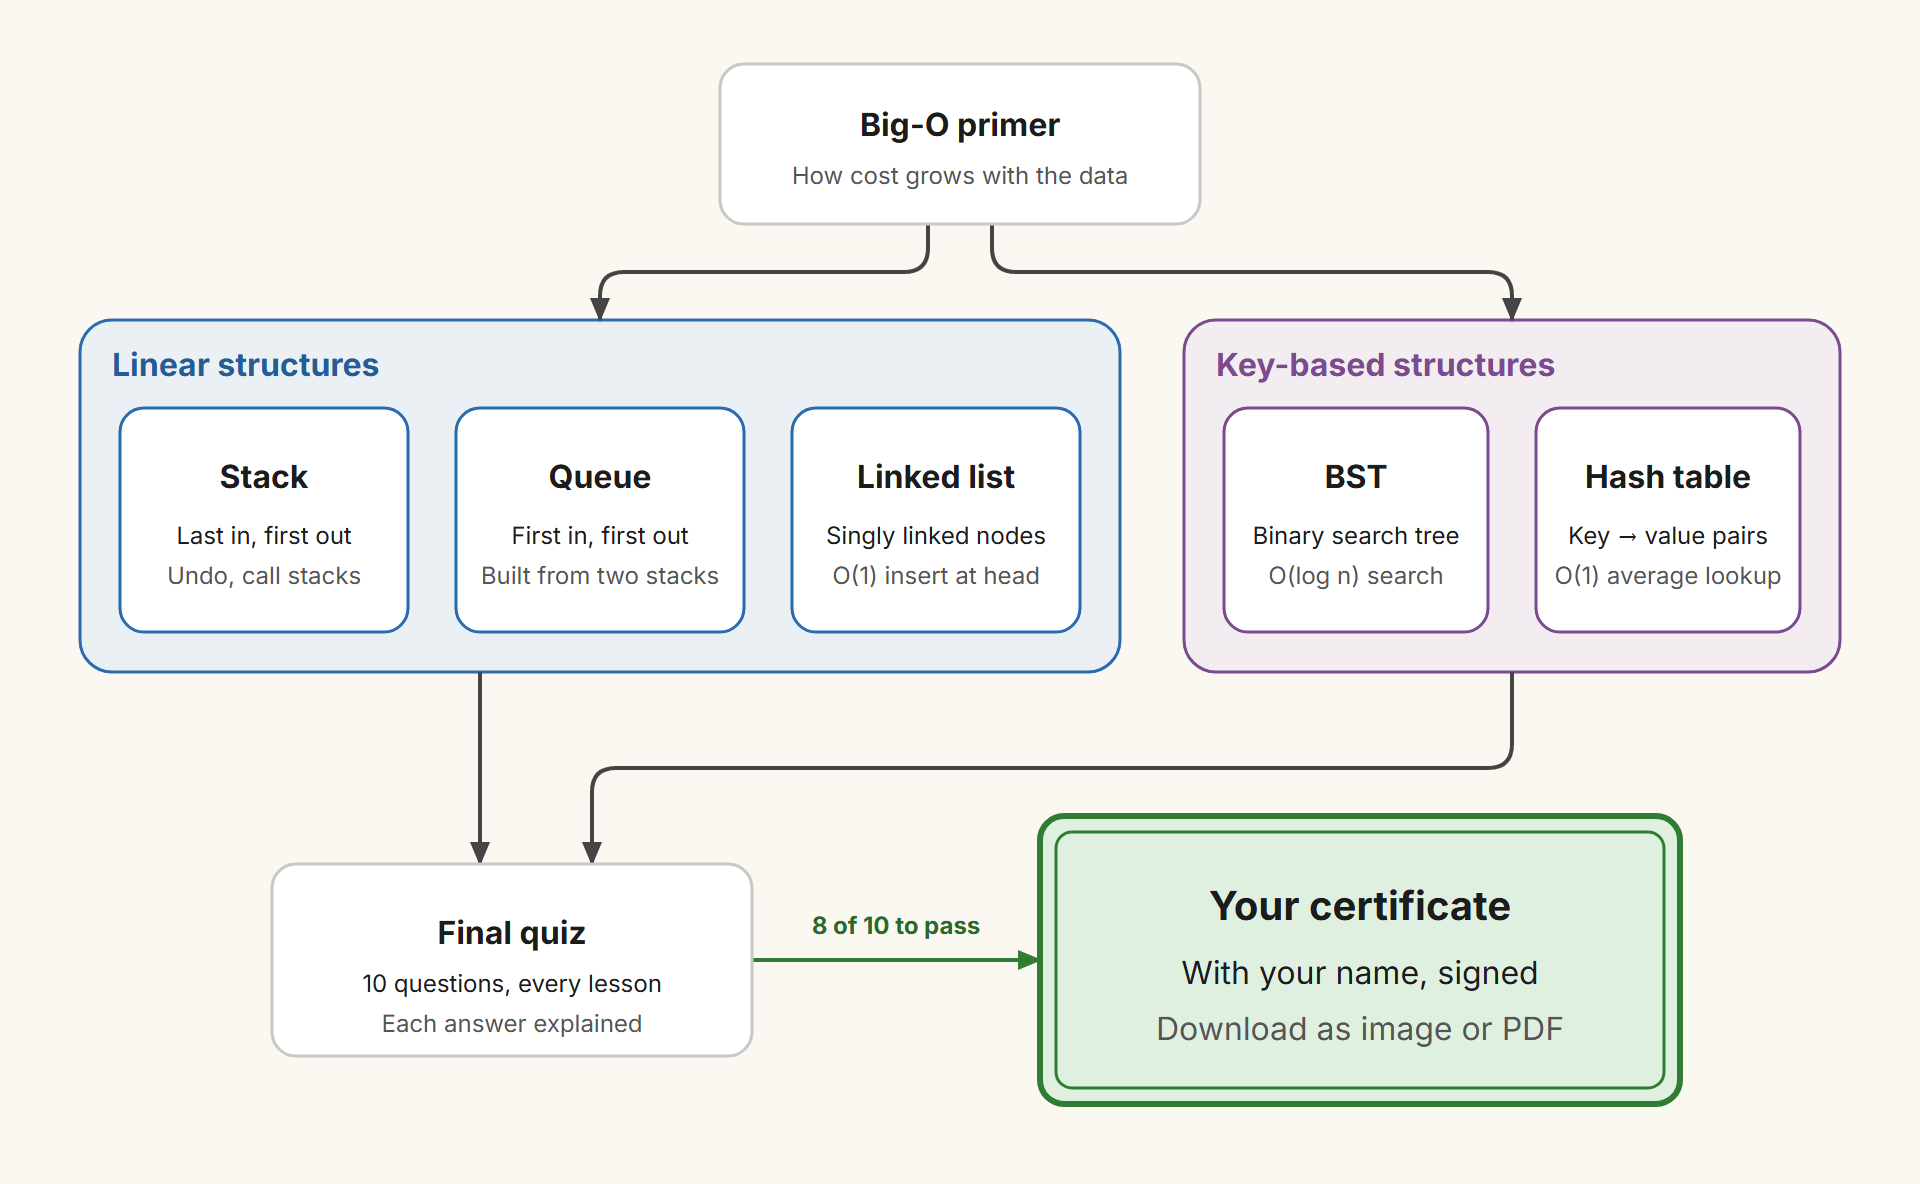
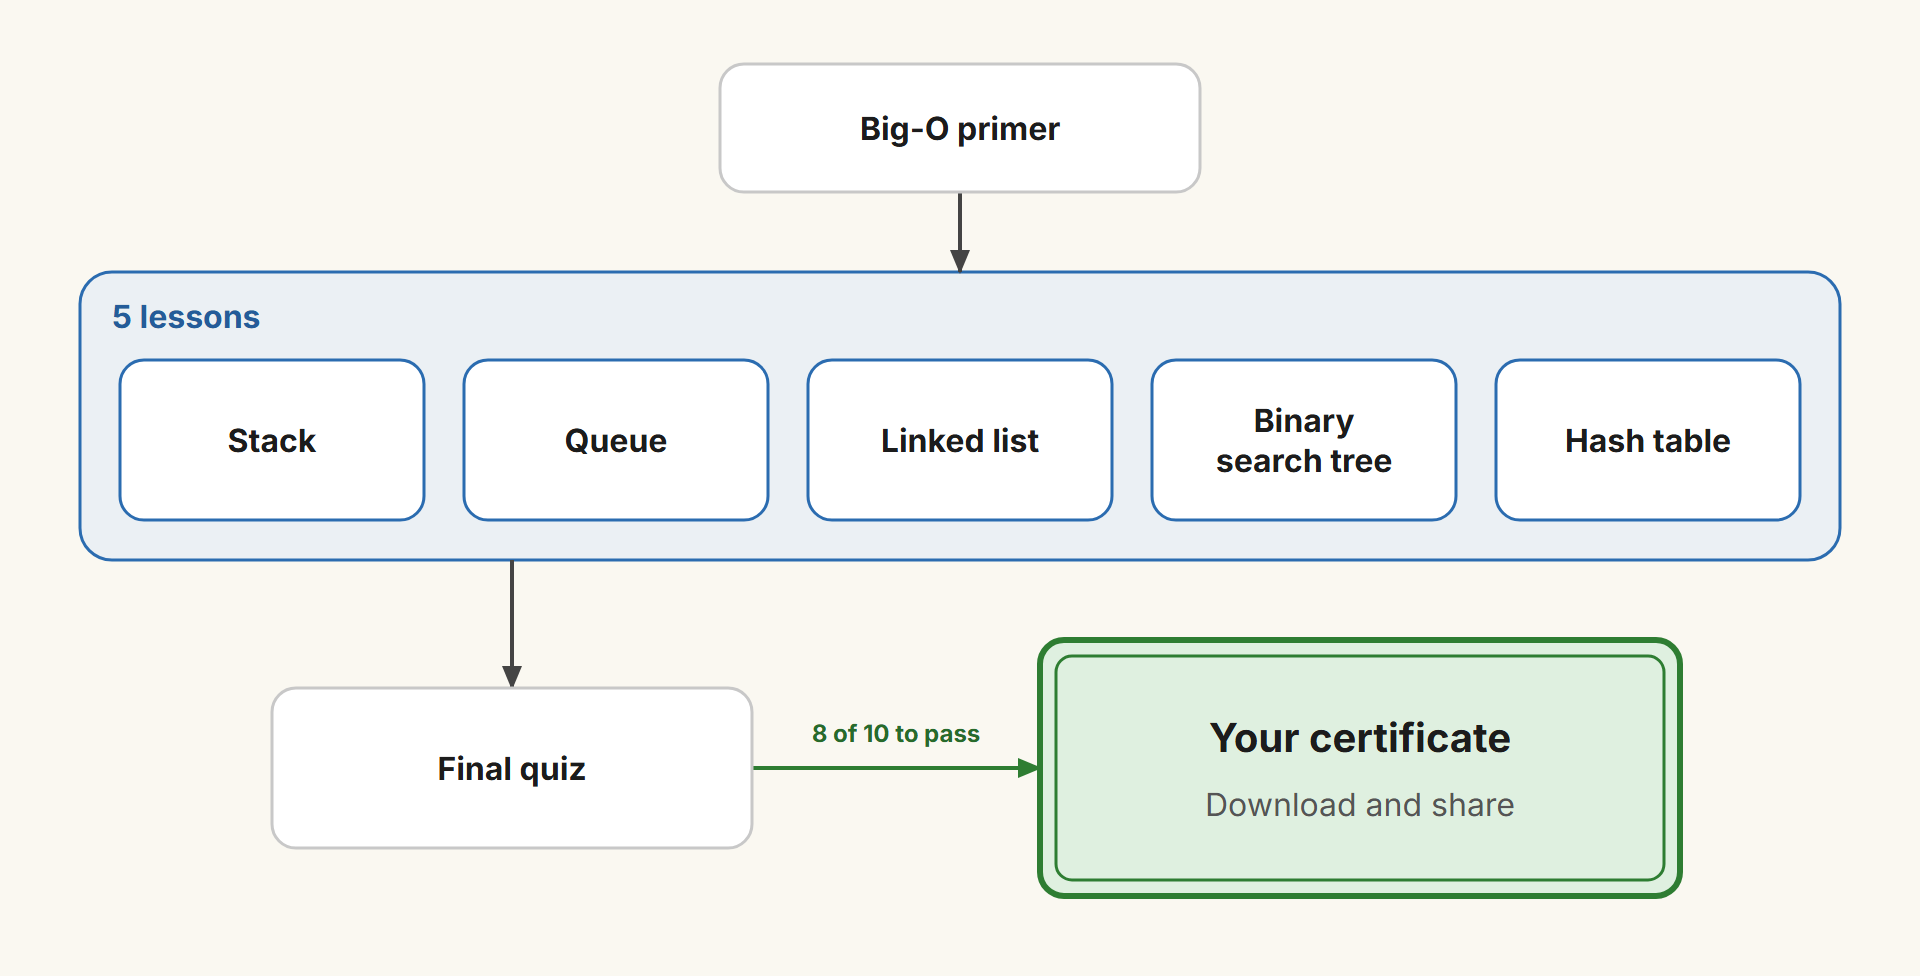
Simplify course overview figure

diff --git a/images/course-overview.html b/images/course-overview.html
@@ -39,13 +39,13 @@
 <body>
   <div class="frame">
     <h1>Introduction to Data Structures</h1>
-    <p class="subtitle">Big-O primer · 5 lessons with theory, animations and practice · final quiz · certificate</p>
+    <p class="subtitle">Big-O primer · 5 lessons · final quiz · certificate</p>
 
     <div class="figure">
-    <svg viewBox="0 0 960 592" xmlns="http://www.w3.org/2000/svg" role="img" aria-labelledby="course-overview-title course-overview-desc"
+    <svg viewBox="0 0 960 488" xmlns="http://www.w3.org/2000/svg" role="img" aria-labelledby="course-overview-title course-overview-desc"
          font-family="Inter, system-ui, sans-serif">
       <title id="course-overview-title">Introduction to Data Structures: course path</title>
-      <desc id="course-overview-desc">The course starts with a Big-O primer, covers five data structures in two groups (stack, queue and linked list; binary search tree and hash table), then a final quiz where 8 of 10 correct earns a signed certificate you can download.</desc>
+      <desc id="course-overview-desc">The course starts with a Big-O primer, then five lessons on the stack, queue, linked list, binary search tree and hash table, then a final quiz; scoring 8 of 10 earns a certificate you can download and share.</desc>
       <defs>
         <marker id="arrow" markerUnits="userSpaceOnUse" markerWidth="12" markerHeight="10" refX="11" refY="5" orient="auto"><polygon points="0 0, 12 5, 0 10" fill="#444444"/></marker>
         <marker id="arrow-green" markerUnits="userSpaceOnUse" markerWidth="12" markerHeight="10" refX="11" refY="5" orient="auto"><polygon points="0 0, 12 5, 0 10" fill="#2e7d32"/></marker>
@@ -53,67 +53,49 @@
 
       <rect width="100%" height="100%" fill="#faf8f1"/>
 
-      <!-- Zones -->
-      <rect x="40" y="160" width="520" height="176" rx="16" fill="#ebf0f4" stroke="#2b6cb0" stroke-width="1.5"/>
-      <text x="56" y="188" font-size="16" font-weight="700" fill="#245c99">Linear structures</text>
-      <rect x="592" y="160" width="328" height="176" rx="16" fill="#f3edf2" stroke="#7b4a8f" stroke-width="1.5"/>
-      <text x="608" y="188" font-size="16" font-weight="700" fill="#7b4a8f">Key-based structures</text>
+      <!-- Zone: the five lessons -->
+      <rect x="40" y="136" width="880" height="144" rx="16" fill="#ebf0f4" stroke="#2b6cb0" stroke-width="1.5"/>
+      <text x="56" y="164" font-size="16" font-weight="700" fill="#245c99">5 lessons</text>
 
       <!-- Connectors -->
-      <path d="M 464 112 V 124 Q 464 136 452 136 H 312 Q 300 136 300 148 V 160" fill="none" stroke="#444444" stroke-width="2" marker-end="url(#arrow)"/>
-      <path d="M 496 112 V 124 Q 496 136 508 136 H 744 Q 756 136 756 148 V 160" fill="none" stroke="#444444" stroke-width="2" marker-end="url(#arrow)"/>
-      <line x1="240" y1="336" x2="240" y2="432" stroke="#444444" stroke-width="2" marker-end="url(#arrow)"/>
-      <path d="M 756 336 V 372 Q 756 384 744 384 H 308 Q 296 384 296 396 V 432" fill="none" stroke="#444444" stroke-width="2" marker-end="url(#arrow)"/>
-      <line x1="376" y1="480" x2="520" y2="480" stroke="#2e7d32" stroke-width="2" marker-end="url(#arrow-green)"/>
+      <line x1="480" y1="96" x2="480" y2="136" stroke="#444444" stroke-width="2" marker-end="url(#arrow)"/>
+      <line x1="256" y1="280" x2="256" y2="344" stroke="#444444" stroke-width="2" marker-end="url(#arrow)"/>
+      <line x1="376" y1="384" x2="520" y2="384" stroke="#2e7d32" stroke-width="2" marker-end="url(#arrow-green)"/>
 
       <!-- Connector label -->
-      <rect x="390" y="452" width="116" height="20" fill="#faf8f1"/>
-      <text x="448" y="467" text-anchor="middle" font-size="12" font-weight="700" fill="#276b2b">8 of 10 to pass</text>
+      <rect x="390" y="356" width="116" height="20" fill="#faf8f1"/>
+      <text x="448" y="371" text-anchor="middle" font-size="12" font-weight="700" fill="#276b2b">8 of 10 to pass</text>
 
-      <!-- Start: Big-O primer -->
-      <rect x="360" y="32" width="240" height="80" rx="12" fill="#ffffff" stroke="#c8c8c8" stroke-width="1.5"/>
-      <text x="480" y="68" text-anchor="middle" font-size="16" font-weight="700" fill="#1c1c1c">Big-O primer</text>
-      <text x="480" y="92" text-anchor="middle" font-size="12" fill="#555555">How cost grows with the data</text>
+      <!-- Start -->
+      <rect x="360" y="32" width="240" height="64" rx="12" fill="#ffffff" stroke="#c8c8c8" stroke-width="1.5"/>
+      <text x="480" y="70" text-anchor="middle" font-size="16" font-weight="700" fill="#1c1c1c">Big-O primer</text>
 
-      <!-- Linear lessons -->
-      <rect x="60" y="204" width="144" height="112" rx="12" fill="#ffffff" stroke="#2b6cb0" stroke-width="1.5"/>
-      <text x="132" y="244" text-anchor="middle" font-size="16" font-weight="700" fill="#1c1c1c">Stack</text>
-      <text x="132" y="272" text-anchor="middle" font-size="12" fill="#1c1c1c">Last in, first out</text>
-      <text x="132" y="292" text-anchor="middle" font-size="12" fill="#555555">Undo, call stacks</text>
+      <!-- Lessons -->
+      <rect x="60" y="180" width="152" height="80" rx="12" fill="#ffffff" stroke="#2b6cb0" stroke-width="1.5"/>
+      <text x="136" y="226" text-anchor="middle" font-size="16" font-weight="700" fill="#1c1c1c">Stack</text>
 
-      <rect x="228" y="204" width="144" height="112" rx="12" fill="#ffffff" stroke="#2b6cb0" stroke-width="1.5"/>
-      <text x="300" y="244" text-anchor="middle" font-size="16" font-weight="700" fill="#1c1c1c">Queue</text>
-      <text x="300" y="272" text-anchor="middle" font-size="12" fill="#1c1c1c">First in, first out</text>
-      <text x="300" y="292" text-anchor="middle" font-size="12" fill="#555555">Built from two stacks</text>
+      <rect x="232" y="180" width="152" height="80" rx="12" fill="#ffffff" stroke="#2b6cb0" stroke-width="1.5"/>
+      <text x="308" y="226" text-anchor="middle" font-size="16" font-weight="700" fill="#1c1c1c">Queue</text>
 
-      <rect x="396" y="204" width="144" height="112" rx="12" fill="#ffffff" stroke="#2b6cb0" stroke-width="1.5"/>
-      <text x="468" y="244" text-anchor="middle" font-size="16" font-weight="700" fill="#1c1c1c">Linked list</text>
-      <text x="468" y="272" text-anchor="middle" font-size="12" fill="#1c1c1c">Singly linked nodes</text>
-      <text x="468" y="292" text-anchor="middle" font-size="12" fill="#555555">O(1) insert at head</text>
+      <rect x="404" y="180" width="152" height="80" rx="12" fill="#ffffff" stroke="#2b6cb0" stroke-width="1.5"/>
+      <text x="480" y="226" text-anchor="middle" font-size="16" font-weight="700" fill="#1c1c1c">Linked list</text>
 
-      <!-- Key-based lessons -->
-      <rect x="612" y="204" width="132" height="112" rx="12" fill="#ffffff" stroke="#7b4a8f" stroke-width="1.5"/>
-      <text x="678" y="244" text-anchor="middle" font-size="16" font-weight="700" fill="#1c1c1c">BST</text>
-      <text x="678" y="272" text-anchor="middle" font-size="12" fill="#1c1c1c">Binary search tree</text>
-      <text x="678" y="292" text-anchor="middle" font-size="12" fill="#555555">O(log n) search</text>
+      <rect x="576" y="180" width="152" height="80" rx="12" fill="#ffffff" stroke="#2b6cb0" stroke-width="1.5"/>
+      <text x="652" y="216" text-anchor="middle" font-size="16" font-weight="700" fill="#1c1c1c">Binary</text>
+      <text x="652" y="236" text-anchor="middle" font-size="16" font-weight="700" fill="#1c1c1c">search tree</text>
 
-      <rect x="768" y="204" width="132" height="112" rx="12" fill="#ffffff" stroke="#7b4a8f" stroke-width="1.5"/>
-      <text x="834" y="244" text-anchor="middle" font-size="16" font-weight="700" fill="#1c1c1c">Hash table</text>
-      <text x="834" y="272" text-anchor="middle" font-size="12" fill="#1c1c1c">Key → value pairs</text>
-      <text x="834" y="292" text-anchor="middle" font-size="12" fill="#555555">O(1) average lookup</text>
+      <rect x="748" y="180" width="152" height="80" rx="12" fill="#ffffff" stroke="#2b6cb0" stroke-width="1.5"/>
+      <text x="824" y="226" text-anchor="middle" font-size="16" font-weight="700" fill="#1c1c1c">Hash table</text>
 
       <!-- Final quiz -->
-      <rect x="136" y="432" width="240" height="96" rx="12" fill="#ffffff" stroke="#c8c8c8" stroke-width="1.5"/>
-      <text x="256" y="472" text-anchor="middle" font-size="16" font-weight="700" fill="#1c1c1c">Final quiz</text>
-      <text x="256" y="496" text-anchor="middle" font-size="12" fill="#1c1c1c">10 questions, every lesson</text>
-      <text x="256" y="516" text-anchor="middle" font-size="12" fill="#555555">Each answer explained</text>
+      <rect x="136" y="344" width="240" height="80" rx="12" fill="#ffffff" stroke="#c8c8c8" stroke-width="1.5"/>
+      <text x="256" y="390" text-anchor="middle" font-size="16" font-weight="700" fill="#1c1c1c">Final quiz</text>
 
       <!-- Focal: the certificate (larger, double frame like the real one) -->
-      <rect x="520" y="408" width="320" height="144" rx="12" fill="#dff0e0" stroke="#2e7d32" stroke-width="3"/>
-      <rect x="528" y="416" width="304" height="128" rx="8" fill="none" stroke="#2e7d32" stroke-width="1.5"/>
-      <text x="680" y="460" text-anchor="middle" font-size="20" font-weight="700" fill="#1c1c1c">Your certificate</text>
-      <text x="680" y="492" text-anchor="middle" font-size="16" fill="#1c1c1c">With your name, signed</text>
-      <text x="680" y="520" text-anchor="middle" font-size="16" fill="#555555">Download as image or PDF</text>
+      <rect x="520" y="320" width="320" height="128" rx="12" fill="#dff0e0" stroke="#2e7d32" stroke-width="3"/>
+      <rect x="528" y="328" width="304" height="112" rx="8" fill="none" stroke="#2e7d32" stroke-width="1.5"/>
+      <text x="680" y="376" text-anchor="middle" font-size="20" font-weight="700" fill="#1c1c1c">Your certificate</text>
+      <text x="680" y="408" text-anchor="middle" font-size="16" fill="#555555">Download and share</text>
     </svg>
     </div>
   </div>
